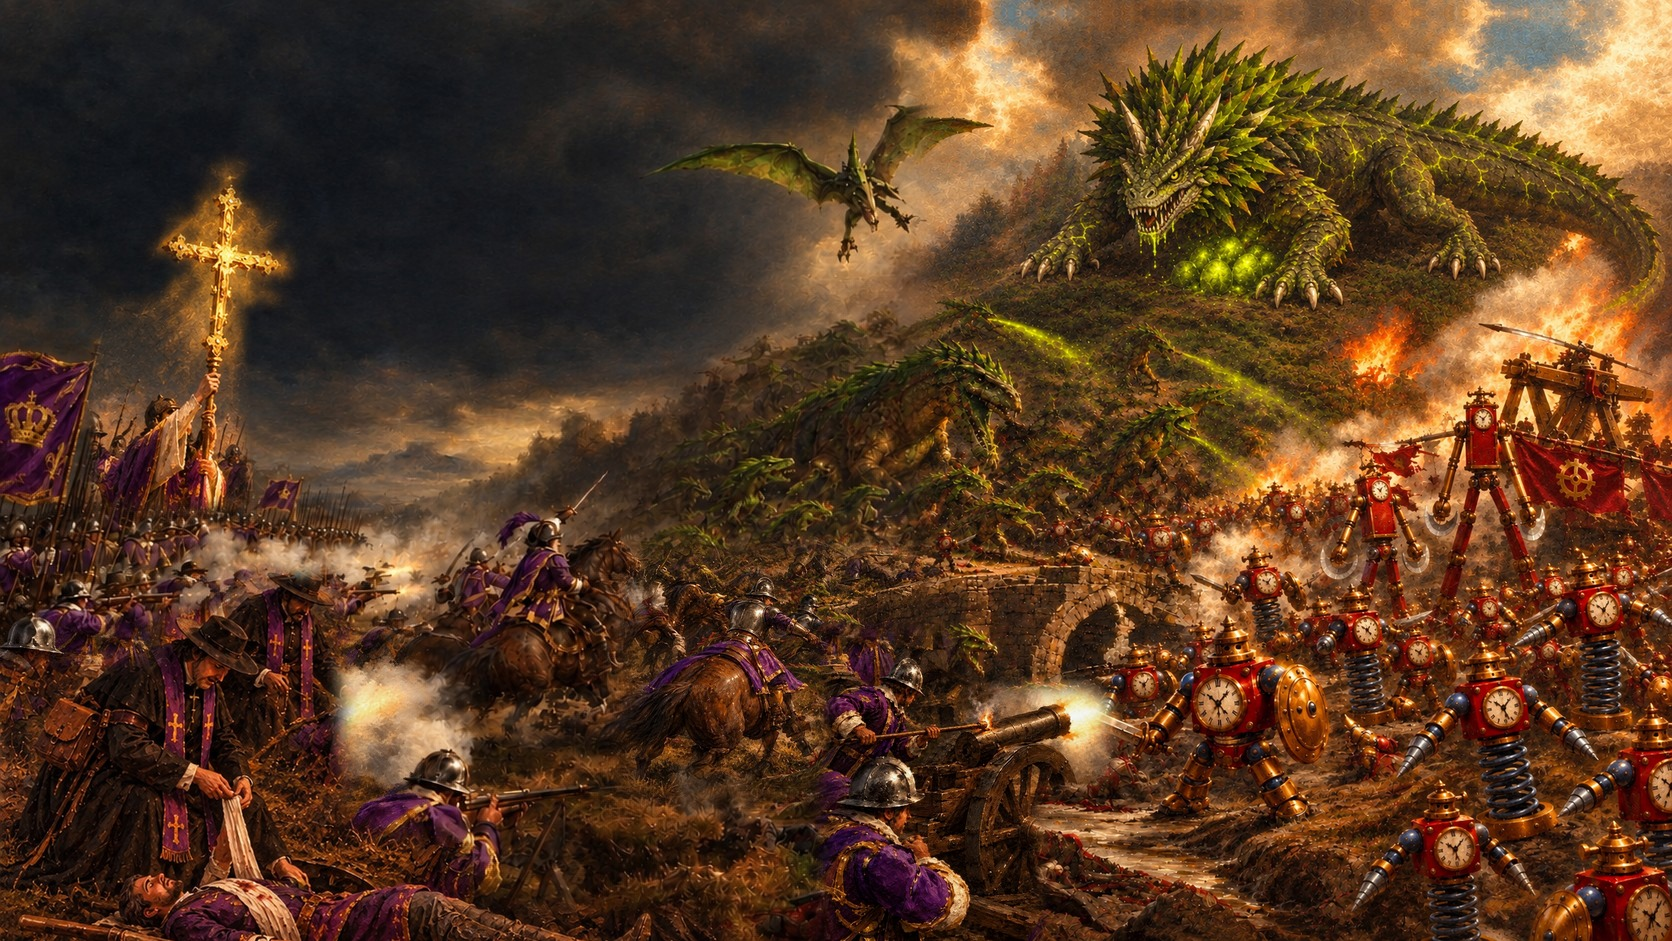
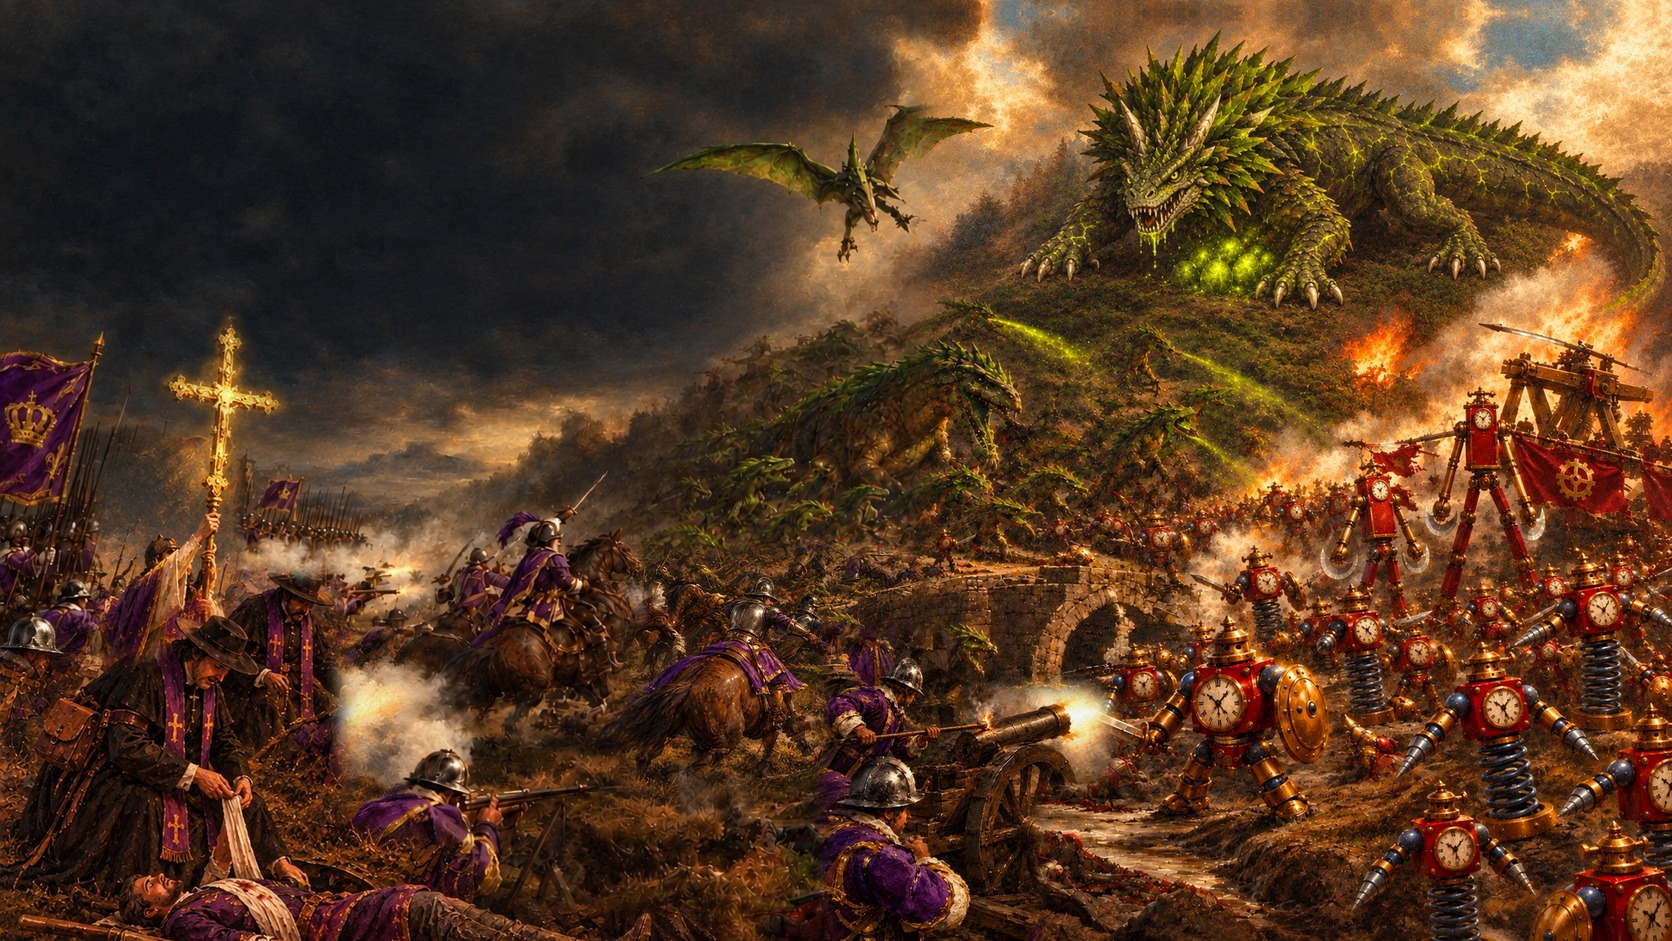
0.33.36: the menu painting's cross carrier moved down and forward
Claude-Session: https://claude.ai/code/session_01NtmEZhP1uA8k4DLQ7BYfMz

Changed region(s): [[0.0311, 0.1541, 0.1866, 0.7088]]

diff --git a/README.md b/README.md
@@ -2,7 +2,7 @@
 
 *(a working title: the game was called Holdfast until October 2026, but that name belongs to another game; the web address, the app file and the repository keep the old name for now so links and installs keep working)*
 
-**Play in your browser (version 0.33.35): https://holdfastrts.github.io/Holdfast/**
+**Play in your browser (version 0.33.36): https://holdfastrts.github.io/Holdfast/**
 
 **Windows program: https://holdfastrts.github.io/Holdfast/Holdfast_windows.zip** (rebuilt on every push; unzip it and run Holdfast.exe; if Windows warns "Windows protected your PC", click More info, then Run anyway)
 
